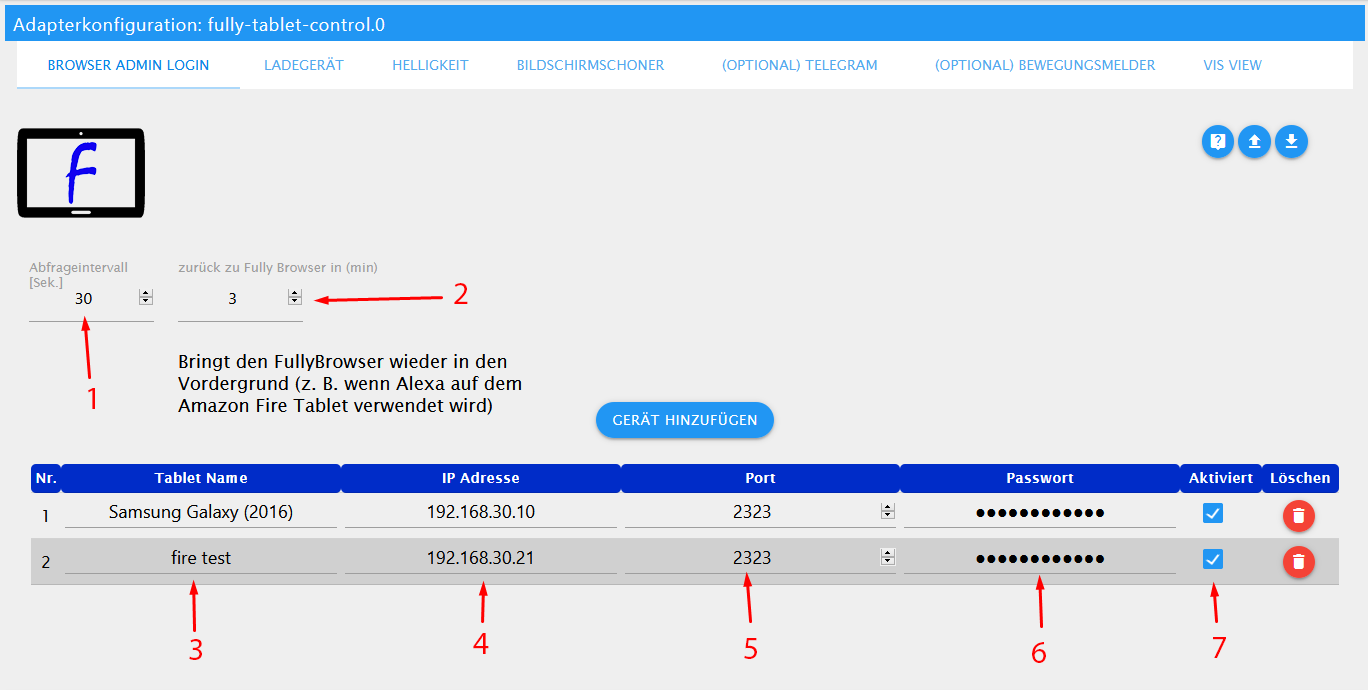
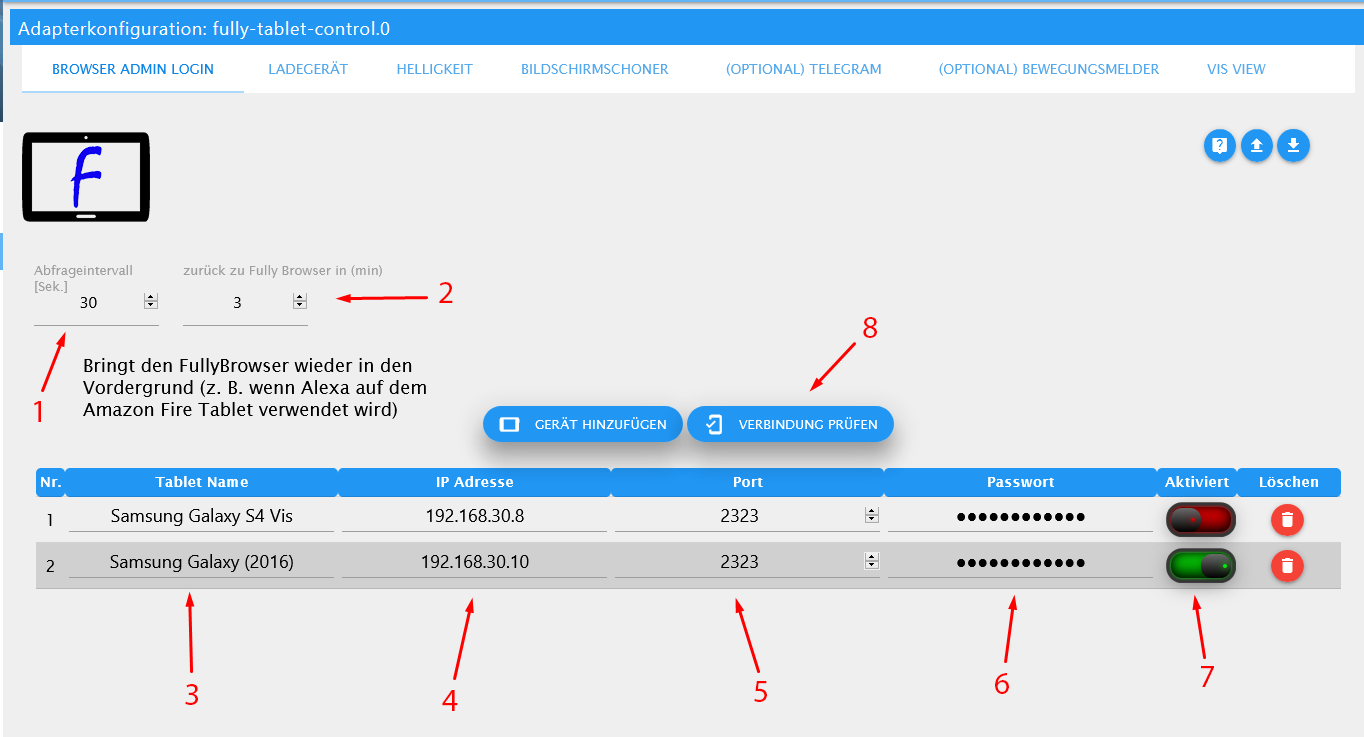
README.md new content added

diff --git a/README.md b/README.md
@@ -18,6 +18,9 @@
 
 # !!! ACHTUNG Beta Release !!!
 
+### !!! ACHTUNG !!! VOR DEM KONFIGURIREN MUSS DER ADAPTER GESTARTET SEIN DA SONST KEINE KONFGURATION MÖGLICH IST.
+![login](admin/media/Adapter_Offline.png)
+
 ## Browser Admin Login
 
 ![login](admin/media/browser-admin-login.png)
@@ -28,7 +31,7 @@
 
 2. Timer in Minuten, um den Fully Browser wieder in den Vordergrund zu holen (empfohlen für Amazon Fire Tablet mit Alexa da der Fully Browser in den Hintergrund gesetzt wird, wenn Alexa auf dem Tablet getriggert wird Z.B. "Alexa wie ist das Wetter heute").
 
-3. Tablet Name wird verwendet, um die verschiedenen Tablets in separaten Ordner zu erstellen, wenn kein Name angegeben wird wir die Ip Adresse als Name verwendet.
+3. Tablet Name wird verwendet, um die verschiedenen Tablets in separaten Ordner zu erstellen, wenn kein Name angegeben wurde wir die Ip Adresse als Name verwendet.
 
 4. Ip Adresse von deinem Tablet.
 
@@ -38,7 +41,13 @@
 
 7. Hier könne einzelne Tablets ausgeschaltet werden so das diese nicht mehr abgefragt werden.
 
+8. Mit diesem Button kann man eine vorab Prüfung starten, ob das Tablet erreichbar ist, dazu muss IP / Port und Passwort eingetragen sein.\
+   Wenn ein Tablet nicht sofort erreichbar ist oder die Antwort länger dauert wird ein Ladesymbol angezeigt dann bitte einfach warten, bis das Ergebnis angezeigt wird \
+   ![login](admin/media/Loading.png) \
+   Sobald das Ergebnis vorliegt wird ein Fenster aufpoppen, wo dann stecht welches Tablet Online oder offline ist.\
+   ![login](admin/media/Device_test.png)
 ## Für Jedes Tablet, das auf der ersten Seite angelegt wurde, muss auf den nächsten Seiten ein Eintrag in der Tabelle angelegt werden!
+
 
 ## Ladegerät
 
@@ -46,7 +55,7 @@
 
 Hier muss die ID von dem Ladegerät eingetragen werden damit das Tablet geladen werden kann.
 
-1. Ladesteuerung Einschalten oder ausschalten wenn ausgeschaltet ignoriert der Adapter alles was mit dem laden des Tablets zu tun hat es werden auch keine Warnungen bei schwacher Batterie ausgegeben.
+1. Ladesteuerung Einschalten oder ausschalten, wenn ausgeschaltet ignoriert der Adapter alles was mit dem laden des Tablets zu tun hat es werden auch keine Warnungen bei schwacher Batterie ausgegeben.
 
 2. Nicht Ausfüllen wird automatisch nach einem reload ausgefüllt.
 
@@ -238,7 +247,7 @@ Hier sind 2 Dp.
 
 ![objects_vis](admin/media/objects_vis.png)
 
-1. hier ist der Timer der die Rest Zeit anzeigt.
+1. hier ist der Timer der die Restzeit anzeigt.
 
 2. das ist der Dp für die Widget 8 View’s.
 
@@ -251,6 +260,9 @@ _______________________________
 -->
 ### __WORK IN PROGRESS__
 * (xXBJXx) test-and-release.yml update
+* (xXBJXx) admin Seite Überarbeitet
+* (xXBJXx) prüfung auf 0/1 für Steckdosen implementiert
+
 ### 0.3.0-beta.5 (2020-10-24)
 * (xXBJXx) reading of the user from telegram adapter instance 0-10 added
 * (xXBJXx) Current page added to Device Info
